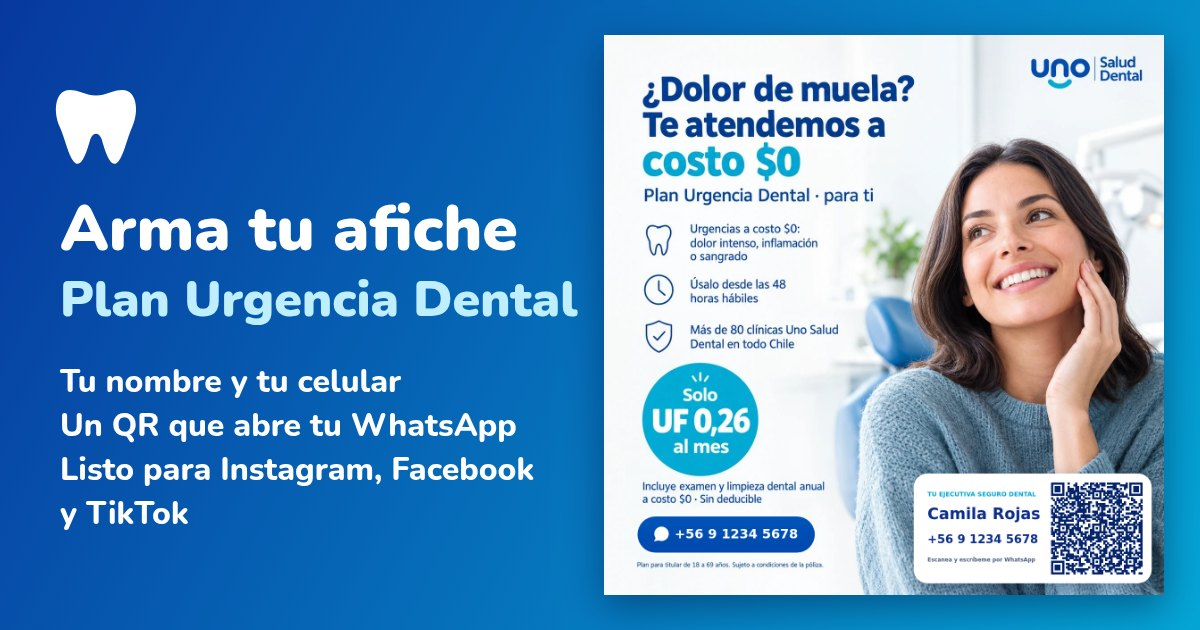
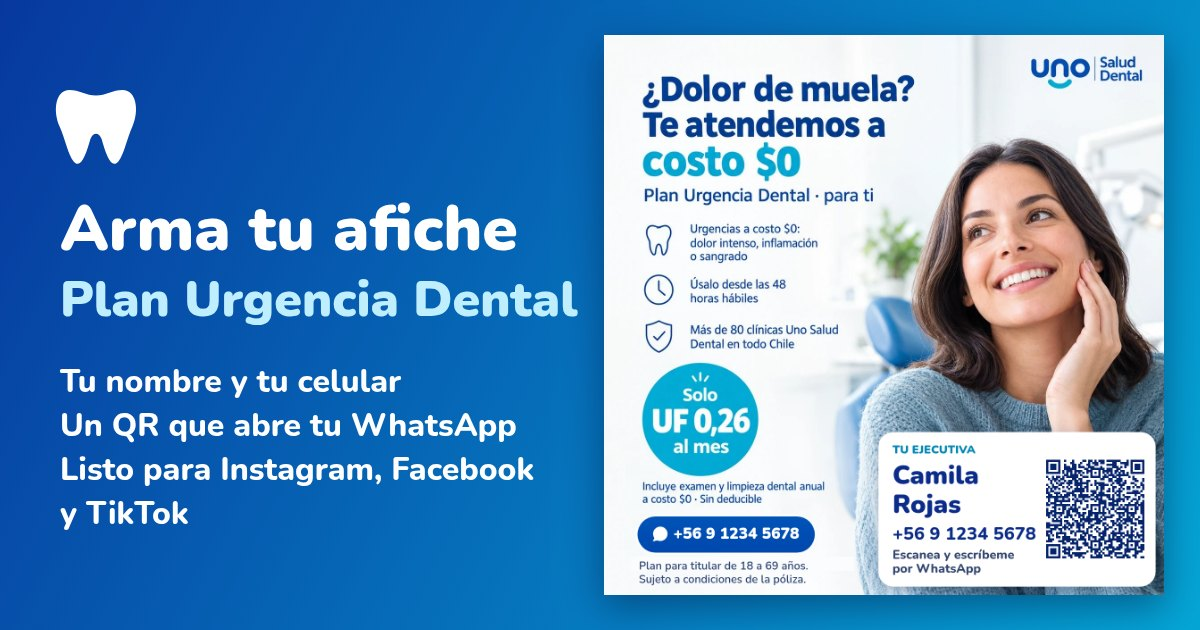
Afiche Urgencia Dental: letra legible y QR de tamaño fijo
Claude-Session: https://claude.ai/code/session_01JdmNKF9JpmLhhRncmgzm38

Changed region(s): [[0.7092, 0.6635, 0.9867, 0.9651], [0.5242, 0.8143, 0.6783, 0.9349]]

diff --git a/afiche/index.html b/afiche/index.html
@@ -141,7 +141,7 @@ input[type="range"] { width: 100%; accent-color: var(--accent); }
           <input type="text" id="nombre" maxlength="40" value="Camila Rojas">
         </label>
         <label>Línea sobre tu nombre
-          <input type="text" id="cargo" maxlength="36" value="Tu ejecutiva Seguro Dental">
+          <input type="text" id="cargo" maxlength="36" value="Tu ejecutiva">
         </label>
         <label>Celular
           <input type="tel" id="telefono" inputmode="tel" maxlength="20" value="+56 9 1234 5678">
@@ -243,7 +243,7 @@ input[type="range"] { width: 100%; accent-color: var(--accent); }
   const BOTON = { x: 75, y: 1078, w: 397, h: 81 };
   // Ubicaciones de la tarjeta, en fracciones del lado del cuadrado.
   const POS = {
-    sueter: { x: 0.553, y: 0.783, w: 0.425, h: 0.196 },
+    sueter: { x: 0.49, y: 0.77, w: 0.495, h: 0.215 },
     // Zona que el prompt nuevo deja vacía (abajo a la izquierda).
     zona:   { x: 0.045, y: 0.765, w: 0.47,  h: 0.19 }
   };
@@ -330,8 +330,8 @@ input[type="range"] { width: 100%; accent-color: var(--accent); }
       // 4:5 la tarjeta va en la franja de abajo; 9:16, en la de arriba,
       // bajo la barra de TikTok (~150 px) y lejos de sus botones de abajo.
       const f = g.franja, m = 44;
-      const h = Math.round(222 * s.tamano), w = Math.round(Math.min(f.w - 2 * m, 980 * s.tamano));
-      const yBase = s.formato === '9:16' ? 168 : f.y + (f.h - h) / 2;
+      const h = Math.round((s.formato === '9:16' ? 252 : 222) * s.tamano), w = Math.round(Math.min(f.w - 2 * m, 980 * s.tamano));
+      const yBase = s.formato === '9:16' ? 150 : f.y + (f.h - h) / 2;
       const x = (g.W - w) / 2 + s.movX * g.W * 0.4;
       const y = yBase + s.movY * (s.formato === '9:16' ? 300 : 120);
       return clamp({ x, y, w, h }, g);
@@ -389,56 +389,97 @@ input[type="range"] { width: 100%; accent-color: var(--accent); }
     ctx.textBaseline = 'alphabetic';
   }
 
+  // Parte un texto en líneas que quepan en `max` px (con la fuente ya puesta).
+  function lineasDe(txt, max) {
+    const pal = String(txt).split(/\s+/), out = []; let l = '';
+    for (const w of pal) { const t = l ? l + ' ' + w : w; if (ctx.measureText(t).width > max && l) { out.push(l); l = w; } else l = t; }
+    if (l) out.push(l);
+    return out;
+  }
+  // Ajusta el tamaño para que el texto quepa en `maxLineas` líneas, sin bajar de `min`.
+  function bloque(txt, peso, tam, min, max, maxLineas) {
+    let t = tam, ls;
+    for (;;) { fuente(peso, t); ls = lineasDe(txt, max); if ((ls.length <= maxLineas && ls.every(l => ctx.measureText(l).width <= max)) || t <= min) break; t -= 1; }
+    return { peso, t, ls, alto: ls.length * t * 1.12 };
+  }
+
   function tarjeta(s, g, numero) {
     const r = rectTarjeta(s, g);
-    const u = r.h / 240;
+    let u = r.h / 240;
     const colores = {
-      blanca:  { fondo: '#FFFFFF', prin: '#0B2C8A', sec: CELESTE, ter: '#4A5D86' },
-      azul:    { fondo: AZUL,      prin: '#FFFFFF', sec: '#8FDDF5', ter: '#D5E4FF' },
-      celeste: { fondo: CELESTE,   prin: '#FFFFFF', sec: '#08307E', ter: '#EAF8FE' }
+      blanca:  { fondo: '#FFFFFF', prin: '#0B2C8A', sec: '#0388B5', ter: '#33466F' },
+      azul:    { fondo: AZUL,      prin: '#FFFFFF', sec: '#A5E6FA', ter: '#E3EDFF' },
+      celeste: { fondo: CELESTE,   prin: '#FFFFFF', sec: '#06296E', ter: '#FFFFFF' }
     }[s.estilo] || {};
+    // Letra mínima legible en un celular (el afiche se ve a ~400 px de ancho).
+    const minimo = g.W * 0.022;
+    const cargo = s.cargo || 'Tu ejecutiva';
+    const nom = s.nombre || 'Tu nombre';
+    const fono = numero ? fonoBonito(numero) : 'Tu celular';
+    const llamado = s.qr === 'tel' ? 'Escanea y llámame' : 'Escanea y escríbeme por WhatsApp';
+
+    // Medir el bloque de texto; si no cabe, la tarjeta crece hacia arriba.
+    const pad = 22 * u;
+    // El QR no crece con la tarjeta: así el texto conserva su ancho.
+    const ladoQR = Math.min(r.h - 2 * pad, r.w * 0.36);
+    let medir = () => {
+      const lado = ladoQR, qx = r.x + r.w - lado - pad;
+      const maxW = qx - (r.x + 28 * u) - 20 * u;
+      const b = [
+        bloque(cargo.toUpperCase(), 900, Math.max(minimo * 0.95, 23 * u), minimo * 0.8, maxW, 2),
+        bloque(nom, 900, Math.max(minimo * 1.7, 52 * u), minimo * 1.15, maxW, 2),
+        bloque(fono, 800, Math.max(minimo * 1.3, 38 * u), minimo, maxW, 1),
+        bloque(llamado, 800, Math.max(minimo, 25 * u), minimo * 0.9, maxW, 2)
+      ];
+      const sep = [8 * u, 10 * u, 8 * u];
+      const alto = b.reduce((a, x) => a + x.alto, 0) + sep.reduce((a, x) => a + x, 0);
+      return { lado, qx, maxW, b, sep, alto };
+    };
+    let L = medir();
+    const falta = L.alto - (r.h - 2 * pad);
+    if (falta > 0) { r.y -= falta; r.h += falta; r.y = Math.max(10, r.y); L = medir(); }
+
     ctx.save();
     ctx.shadowColor = 'rgba(4, 25, 70, 0.30)'; ctx.shadowBlur = 34 * u; ctx.shadowOffsetY = 10 * u;
     rr(r.x, r.y, r.w, r.h, 30 * u); ctx.fillStyle = colores.fondo; ctx.fill();
     ctx.restore();
 
     // QR (siempre oscuro sobre blanco, para que lo lea cualquier celular)
-    const qPad = 20 * u, lado = r.h - 2 * qPad;
-    const qx = r.x + r.w - lado - qPad, qy = r.y + qPad;
+    const lado = L.lado, qx = L.qx, qy = r.y + (r.h - lado) / 2;
     rr(qx - 8 * u, qy - 8 * u, lado + 16 * u, lado + 16 * u, 14 * u); ctx.fillStyle = '#FFFFFF'; ctx.fill();
     let ok = false;
     if (numero) ok = dibujarQR(contenidoQR(s, numero), qx, qy, lado, '#06246B');
     if (!ok) {
       ctx.fillStyle = '#EDF2FA'; ctx.fillRect(qx, qy, lado, lado);
-      ctx.fillStyle = '#5A6B8C'; fuente(800, 22 * u); ctx.textAlign = 'center';
+      ctx.fillStyle = '#5A6B8C'; fuente(800, Math.max(minimo, 22 * u)); ctx.textAlign = 'center';
       ctx.fillText(numero ? 'Cargando…' : 'Falta tu', qx + lado / 2, qy + lado / 2 - 2 * u);
-      if (!numero) ctx.fillText('celular', qx + lado / 2, qy + lado / 2 + 26 * u);
+      if (!numero) ctx.fillText('celular', qx + lado / 2, qy + lado / 2 + 30 * u);
       ctx.textAlign = 'left';
     }
 
-    // textos
-    const tx = r.x + 30 * u, maxW = qx - tx - 22 * u;
-    const cargo = (s.cargo || 'Tu ejecutiva Seguro Dental');
-    const nom = s.nombre || 'Tu nombre';
-    const fono = numero ? fonoBonito(numero) : 'Tu celular';
-    const llamado = s.qr === 'tel' ? 'Escanea y llámame' : 'Escanea y escríbeme por WhatsApp';
+    // textos, centrados en el alto de la tarjeta
+    const tx = r.x + 28 * u;
+    let y = r.y + (r.h - L.alto) / 2;
+    const color = [colores.sec, colores.prin, colores.prin, colores.ter];
     ctx.textBaseline = 'alphabetic';
-    ajustar(cargo.toUpperCase(), 900, 20 * u, maxW, 9); ctx.fillStyle = colores.sec; ctx.fillText(cargo.toUpperCase(), tx, r.y + 50 * u);
-    // nombre: hasta dos líneas si es largo
-    let tamNom = ajustar(nom, 900, 46 * u, maxW, 26 * u);
-    let lineas = [nom];
-    if (ctx.measureText(nom).width > maxW) {
-      const pal = nom.split(' '); const mitad = Math.ceil(pal.length / 2);
-      lineas = [pal.slice(0, mitad).join(' '), pal.slice(mitad).join(' ')];
-      tamNom = Math.min(ajustar(lineas[0], 900, 38 * u, maxW, 14), ajustar(lineas[1], 900, 38 * u, maxW, 14));
-    }
-    ctx.fillStyle = colores.prin; fuente(900, tamNom);
-    let yN = r.y + 100 * u;
-    if (lineas.length > 1) { ctx.fillText(lineas[0], tx, r.y + 88 * u); ctx.fillText(lineas[1], tx, r.y + 124 * u); yN = r.y + 124 * u; }
-    else ctx.fillText(nom, tx, yN);
-    ajustar(fono, 800, 34 * u, maxW, 12); ctx.fillStyle = colores.prin; ctx.fillText(fono, tx, yN + 52 * u);
-    ajustar(llamado, 700, 21 * u, maxW, 9); ctx.fillStyle = colores.ter;
-    ctx.fillText(llamado, tx, Math.min(r.y + r.h - 24 * u, yN + 92 * u));
+    L.b.forEach((b, i) => {
+      fuente(b.peso, b.t); ctx.fillStyle = color[i];
+      b.ls.forEach((l) => { y += b.t * 1.12; ctx.fillText(l, tx, y - b.t * 0.22); });
+      if (i < L.sep.length) y += L.sep[i];
+    });
+  }
+
+  // Línea legal del afiche incluido: venía en letra muy chica (da desconfianza).
+  // Se tapa y se vuelve a escribir legible, en dos líneas.
+  function legalGrande(g, conBoton) {
+    if (!esIncluida) return;
+    const k = g.img.l / ORIG, ox = g.img.x, oy = g.img.y;
+    ctx.fillStyle = FONDO; ctx.fillRect(ox + 60 * k, oy + 1168 * k, 500 * k, 32 * k);
+    const t = Math.max(25 * k, g.W * 0.02);
+    ctx.fillStyle = '#2E4472'; fuente(600, t); ctx.textBaseline = 'alphabetic';
+    const y0 = oy + (conBoton ? 1197 : 1190) * k;
+    ctx.fillText('Plan para titular de 18 a 69 años.', ox + 78 * k, y0);
+    ctx.fillText('Sujeto a condiciones de la póliza.', ox + 78 * k, y0 + t * 1.2);
   }
 
   // ---------- dibujo completo ----------
@@ -456,6 +497,7 @@ input[type="range"] { width: 100%; accent-color: var(--accent); }
     }
     const numero = normalizarFono(s.telefono);
     botonFono(s, g, numero);
+    legalGrande(g, true);
     tarjeta(s, g, numero);
 
     $('telInfo').textContent = numero

diff --git a/afiche/sw.js b/afiche/sw.js
@@ -1,5 +1,5 @@
 // Afiche Urgencia Dental — deja la app lista para abrirse aunque la señal sea mala.
-const CACHE = 'afiche-urgencia-v2';
+const CACHE = 'afiche-urgencia-v3';
 const BASE = ['./', 'index.html', 'manifest.webmanifest', 'base-urgencia.jpg',
   'icon-192.png', 'icon-512.png', 'icon-maskable-512.png', 'apple-touch-icon.png', 'favicon-32.png'];
 
